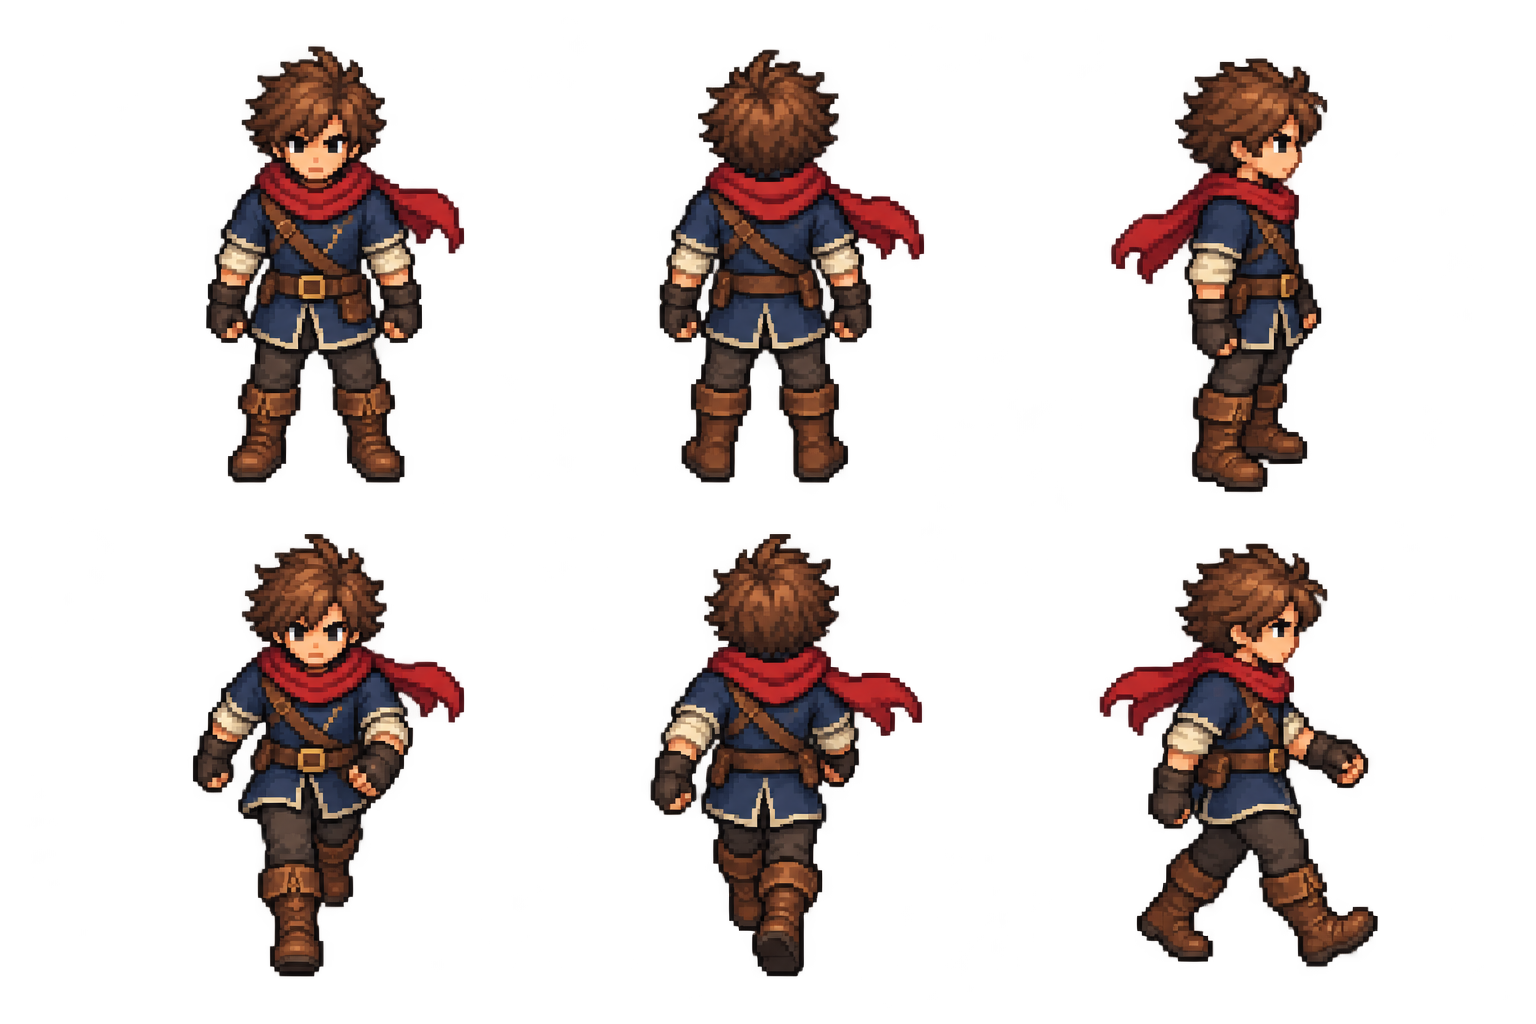
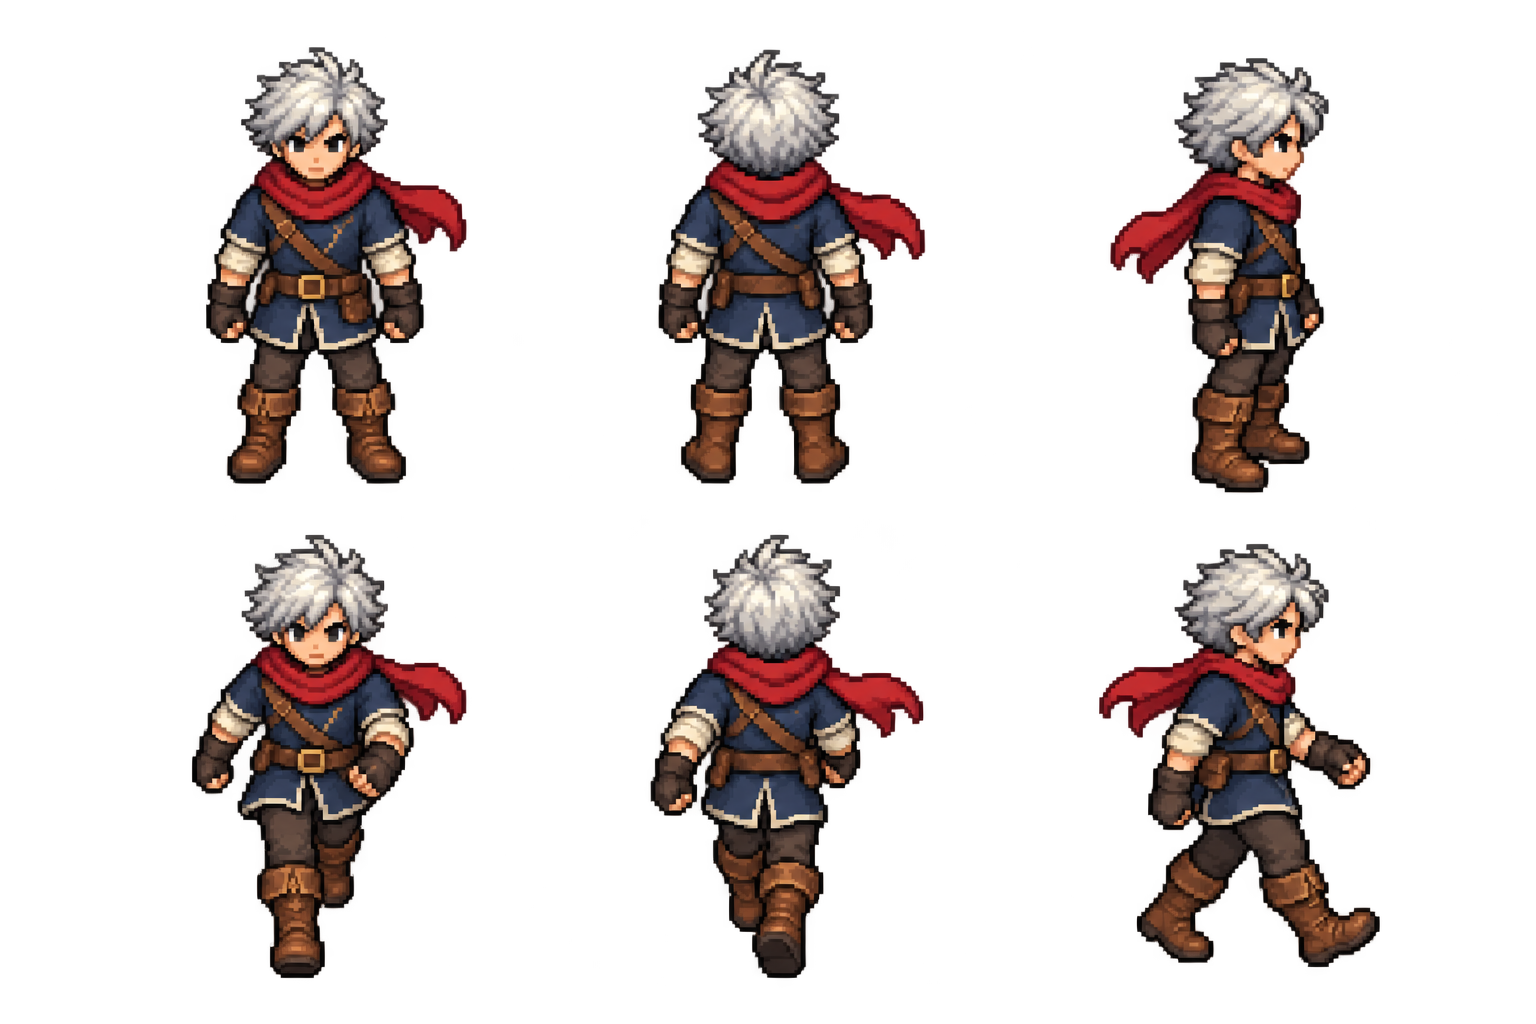
Add hometown village artwork and white-haired hero for art batch A

diff --git a/design/art-batch-a/VillageCapture.java b/design/art-batch-a/VillageCapture.java
@@ -1,0 +1,78 @@
+import com.badlogic.gdx.Gdx;
+import com.badlogic.gdx.backends.lwjgl3.*;
+import com.badlogic.gdx.files.FileHandle;
+import com.badlogic.gdx.graphics.*;
+import com.badlogic.gdx.utils.ScreenUtils;
+import com.yongsa.YongsaGame;
+import com.yongsa.model.*;
+import com.yongsa.screen.*;
+import com.yongsa.world.*;
+import java.util.*;
+
+/** External QA helper; does not modify the game or production save files. */
+public final class VillageCapture {
+ public static void main(String[] args) {
+  System.setProperty("yongsa.saveDir",new java.io.File(args[0],"qa-save").getAbsolutePath());
+  var config=new Lwjgl3ApplicationConfiguration();
+  config.setWindowedMode(1280,720);config.setInitialVisible(false);config.disableAudio(true);config.useVsync(false);
+  new Lwjgl3Application(new Capture(args[0]),config);
+ }
+ static class Capture extends YongsaGame {
+  FileHandle output; int shot,frame; WorldRenderer renderer; GameSession session;
+  OrthographicCamera camera;
+  String[] names={"village-trapped-overview","village-free-overview","village-plaza-hud","village-bakery-hud","village-north-hud"};
+  Capture(String dir){output=new FileHandle(dir);output.mkdirs();}
+  public void create(){super.create();camera=new OrthographicCamera(1280,720);checkPaths();setup();}
+  void checkPaths(){
+   var map=newMap(); var room=map.rooms.stream().filter(r->r.type==RoomType.VILLAGE).findFirst().orElseThrow();
+   int step=4,w=(int)Math.ceil(room.widthPx/step),h=(int)Math.ceil(room.heightPx/step);
+   boolean[] free=new boolean[w*h],seen=new boolean[w*h];
+   for(int y=0;y<h;y++)for(int x=0;x<w;x++)free[y*w+x]=room.allowsFoot(room.originX+(x+.5f)*step,room.originY+(y+.5f)*step,10);
+   int start=nearest(room,w,h,step,free,room.spawnX(balance.tileSize),room.spawnY(balance.tileSize));
+   var queue=new ArrayDeque<Integer>();queue.add(start);seen[start]=true;
+   while(!queue.isEmpty()){int i=queue.remove(),x=i%w,y=i/w;
+    for(int[] d:new int[][]{{1,0},{-1,0},{0,1},{0,-1}}){int nx=x+d[0],ny=y+d[1];
+     if(nx<0||ny<0||nx>=w||ny>=h)continue;int n=ny*w+nx;if(free[n]&&!seen[n]){seen[n]=true;queue.add(n);}}
+   }
+   for(var v:balance.village.villagers){float x=room.sceneX(v.at[0]),y=room.sceneY(v.at[1]);
+    if(!room.allowsFoot(x,y,10))throw new AssertionError("Blocked NPC: "+v.kind);
+    int n=nearest(room,w,h,step,free,x,y);if(!seen[n])throw new AssertionError("Unreachable NPC: "+v.kind);
+    System.out.println("VILLAGE_PATH_OK "+v.kind);
+   }
+   for(var p:room.scene.portals){float x=room.sceneX(p.foot[0]),y=room.sceneY(p.foot[1]);
+    if(!room.allowsFoot(x,y,10)||!seen[nearest(room,w,h,step,free,x,y)])throw new AssertionError("Blocked portal: "+p.id);
+    System.out.println("VILLAGE_PATH_OK portal "+p.id);
+   }
+   if(room.allowsFoot(room.sceneX(.50f),room.sceneY(.56f),0))throw new AssertionError("Well is walkable");
+  }
+  int nearest(Room r,int w,int h,int step,boolean[] free,float wx,float wy){
+   float best=Float.MAX_VALUE;int result=-1;
+   for(int y=0;y<h;y++)for(int x=0;x<w;x++){if(!free[y*w+x])continue;
+    float dx=r.originX+(x+.5f)*step-wx,dy=r.originY+(y+.5f)*step-wy,d=dx*dx+dy*dy;
+    if(d<best){best=d;result=y*w+x;}}
+   if(result<0||best>step*step*2)throw new AssertionError("Anchor not near valid ground");return result;
+  }
+  void setup(){
+   if(renderer!=null){renderer.dispose();renderer=null;}
+   var state=NewGame.create(balance);state.exitRefusals=6;state.finalBossDefeated=shot!=0;
+   var map=newMap();var room=map.rooms.stream().filter(r->r.type==RoomType.VILLAGE).findFirst().orElseThrow();
+   float u=shot==3?.29f:shot==4?.50f:.59f,v=shot==3?.72f:shot==4?.21f:.52f;
+   state.resumeX=room.sceneX(u);state.resumeY=room.sceneY(v);
+   if(shot<2){
+    session=new GameSession(balance,map,state,42);session.monsters.clear();
+    renderer=new WorldRenderer(session,art,fonts,batch,shapes);renderer.update(0);
+    camera.zoom=1;camera.position.set(room.originX+room.widthPx/2,room.originY+room.heightPx/2,0);camera.update();
+   }else{var previous=getScreen();setScreen(new GameScreen(this,state));if(previous!=null)previous.dispose();}
+  }
+  public void render(){
+   if(shot<2){renderer.renderLights(camera);Gdx.gl.glClearColor(.02f,.018f,.03f,1);Gdx.gl.glClear(GL20.GL_COLOR_BUFFER_BIT);renderer.render(camera);}
+   else super.render();
+   if(++frame<100)return;
+   Pixmap p=ScreenUtils.getFrameBufferPixmap(0,0,1280,720);var writer=new PixmapIO.PNG();writer.setFlipY(true);
+   try{writer.write(output.child(names[shot]+".png"),p);}catch(Exception e){throw new RuntimeException(e);}finally{writer.dispose();p.dispose();}
+   System.out.println("VILLAGE_CAPTURE_OK "+names[shot]);frame=0;
+   if(++shot==names.length){Gdx.app.exit();return;}setup();
+  }
+  public void dispose(){if(renderer!=null)renderer.dispose();super.dispose();}
+ }
+}

diff --git a/design/art-batch-a/README.md b/design/art-batch-a/README.md
@@ -1,0 +1,43 @@
+# 묶음 A 진행: 고향 마을과 흰머리 용사
+
+기준: 팀 통합 PR #6이 병합된 `main` (`ab712f2`). 2026-10-15 사용자가 보스 규격 문제는 보류하고 마을부터 마무리하도록 요청했다. **A 전체 완료가 아니다.** 이 PR에 A2~A4 보스 작업을 나중에 이어 붙인다.
+
+## 적용 내용
+
+- A5: `assets/scenes/team/village.png`에 낮 풍경의 마을을 추가하고 `natural-room-scenes.json`의 `village` 장면에 연결했다. 기존 임시 그림은 이력/참고용으로 보존한다.
+- 네 집, 북쪽 계단, 우물, 빵집 노점, 종탑, 가로등 네 개와 가장자리 소나무 배치를 살렸다. 주민이나 수정 감옥은 배경에 그리지 않았다.
+- 바닥 경계와 20개 고정물의 충돌 다각형을 새 그림에 맞췄다. 나무 꼭대기·꽃밭 전체를 장애물로 삼지 않고 바닥의 고정물에 맞춘다. 이전 임시 데이터의 주민 위치 장애물은 제거했다.
+- 마을 사람 여섯 자리, 북쪽 출구 `(0.50,0.06)`, 입장 위치 `(0.50,0.17)`, 24타일 마을 폭, 맵 링크는 유지한다.
+- A1: 게임용 및 메뉴용 용사 시트의 머리 색을 흰색/은색으로 바꿨다. 두 시트 모두 1536×1024 RGBA, 기존 UV·파일명 유지. 6포즈와 붉은 목도리·남색 옷을 유지한다. 생성 편집이므로 비머리 픽셀이 완전히 동일하다는 뜻은 아니다. 50% 알파 경계 기준 기존 포즈의 외곽/발 차이는 최대 2px이며 게임용 500px 칸에서 월드 0.24px 이하다.
+
+**후처리 확대 없음:** 마을 원본은 실제 생성된 1340×1174이다. 마을 명세는 약 8:7 비율에서 크기를 변경할 수 있으므로 `pixelWidth/pixelHeight`를 실제 값으로 설정했다. 그림 파일 자체는 늘리거나 줄이지 않았다. 게임은 기존 방식으로 월드 크기에 그린다. 이전 비율 대비 월드 높이 차이는 약 0.86px이다.
+
+## 검증
+
+- Java 17 `:core:test :lwjgl3:dist` 성공. 84개 테스트 통과, 실패·오류·건너뜀 0. 기존 지도·통로 연결 검사 포함.
+- 외부 QA 실행기 [VillageCapture.java](VillageCapture.java)로 게임의 `Room.allowsFoot` 판정을 사용했다. 발 반경 10, 4 월드 픽셀 간격의 경로 탐색으로 입장점에서 주민 6명과 북쪽 출구에 접근할 수 있음을 확인했다. 우물 중심은 통과할 수 없다.
+- 실제 Java GL 렌더러로 아래 5장을 캡처했다. 별도 세이브 디렉터리와 숨김 창을 사용한다. 게임 소스 `core/`, `lwjgl3/`는 바꾸지 않았다.
+- 모든 배경 이미지 픽셀과 충돌선이 자동으로 일치함을 보장하는 검사는 아니다. 다각형은 그림을 보고 수동으로 작성했고, 경로·고정물 및 화면을 확인했다.
+
+![해방 후 마을](screens/village-free-overview.png)
+![수정 감옥 상태](screens/village-trapped-overview.png)
+![실제 플레이 화면](screens/village-plaza-hud.png)
+![빵집 접근](screens/village-bakery-hud.png)
+![북쪽 계단과 기존 통로](screens/village-north-hud.png)
+
+실행 방법(저장소 루트, Java 17):
+
+```text
+javac -encoding UTF-8 -cp lwjgl3/build/libs/yongsa-game-0.1.0.jar -d <QA classes> design/art-batch-a/VillageCapture.java
+java -cp "lwjgl3/build/libs/yongsa-game-0.1.0.jar;<QA classes>" VillageCapture <출력 폴더>
+```
+
+## 남은 것
+
+- **A2~A4 보스 3종은 보류.** 2048×1280을 요청했지만 1586×992로 출력됐다. 골렘 재생성도 같은 규격이었다. 요구된 256px 칸·발 위치를 충족하지 못하므로 게임 파일은 교체하지 않았다. 이는 생성기의 최대 해상도를 확인했다는 뜻은 아니다.
+- 마을 주민/수정 감옥은 기존 임시 그림 그대로다. B에서 화풍을 맞춘다.
+- 북쪽 계단 위 통로는 현재 게임의 자동 생성 타일로 그려진다. 캡처에서 보이는 통로 타일과 계단의 화풍 차이/덧그림 경계는 기존 렌더러 동작이며 이 미술 PR에서 코드로 고치지 않았다. 통로를 다듬을 때 함께 확인해야 한다.
+- 앞쪽 나무·기둥의 동적 가림은 기존 방과 마찬가지로 별도 가림 레이어 연결이 필요하다(D).
+- B/C/D는 미완료이며 이 PR은 그 묶음의 완료를 뜻하지 않는다.
+
+이미지는 built-in `image_gen` 편집으로 만들었다. 입력·최종 프롬프트와 보류 사유는 [PROMPTS.json](PROMPTS.json), 파일 규격/해시는 [asset-check.json](asset-check.json)에 보존한다.
